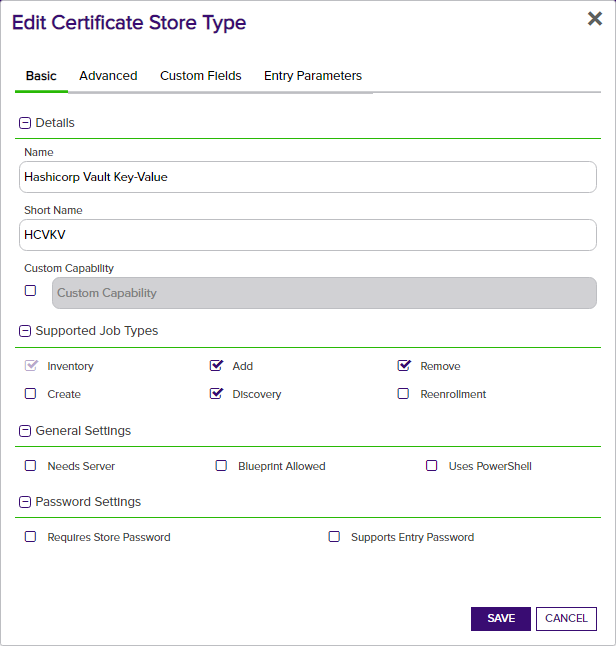
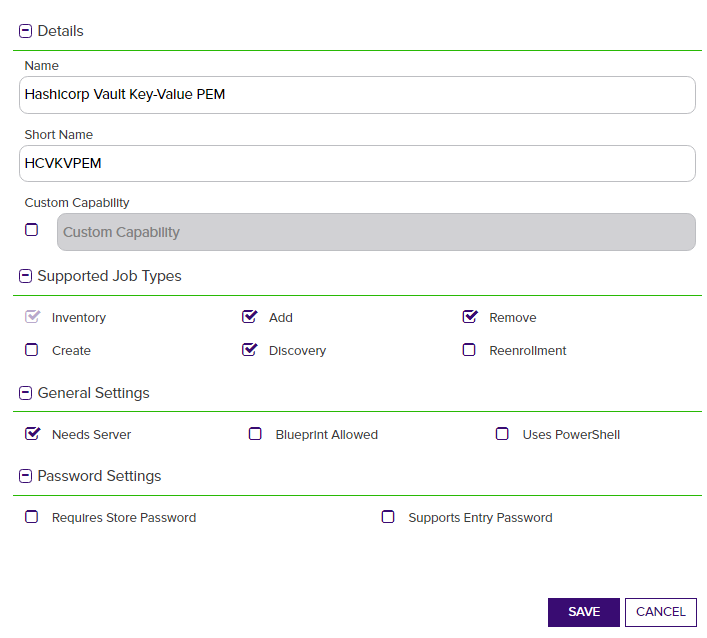
Updating documentation and manifest

Changed region(s): [[0.0, 0.0, 1.0, 1.0], [0.0, 0.0, 0.401, 0.0596], [0.0, 0.9828, 0.0308, 1.0]]

diff --git a/readme_source.md b/readme_source.md
@@ -8,17 +8,40 @@ This integration supports 3 Hashicorp Secrets Engines; PKI, Key-Value store, and
 
 ### The Key-Value secrets engine
 
-The Following operations are supported by this integration **only** for the Key-Value secrets engine.
+For the Key-Value secrets engine, we have 4 store types that can be used.  
 
-1. Discovery - Discover all sub-paths containing certificate.
-1. Inventory - Return all certificates stored in a path.
+- *HCVKVJKS* - For JKS certificate files, treats each file as it's own store.
+- *HCVKVPFX* - For PFX certificate files, treats each file as it's own store.
+- *HCVKVP12* - For PKCS12 certificate files, treats each file as it's own store.
+- *HCVKVPEM* - For PEM encoded certificates, treats each _path_ as it's own store.  Each certificate exists in a sub-path from the store path.
+
+The following operations are supported by this integration for all of the Key-Value secrets engine types:
+
+1. Discovery - Discovery all file repositories for the type
+1. Inventory - Inventory all certificates in the path
+
+Additionally, the following operations are supported by this integration **only** for the Key-Value PEM secrets engine (*HCVKVPEM*).
+
 1. Management (Add) - Add a certificate to a defined certificate store.
 1. Management (Remove) - Remove a certificate from a defined certificate store.
 
+Excluding *HCVKVPEM*, the discovery process requires that:
+1. The entry for the certificate contain the base64 encoded certificate file.
+1. The name (key) for the entry contains the suffix corresponding to the certificate store type:
+ 1. *HCVKVJKS* - `*jks-contents` 
+ 1. *HCVKVPFX* - `*pfx-contents`
+ 1. *HCVKVP12* - `*p12-contents`
+ 1. *HCVKVPEM* - `certificate`
+1. For all except *HCVKVPEM*, there be an entry named `password` that contains the password for the store.
+1. For *HCVKVPEM*, there be an entry named `private_key` containing the private key portion of the key-pair.
+
+**Note**: Key/Value secrets that do not include the expected keys will be ignored during inventory scans.
+
 ### The Hashicorp PKI and Keyfactor Plugin secrets engines
 
-Both the Hashicorp PKI and Keyfactor plugin are designed to allow managing certifications directly on the Hashicorp Vault instance.
-This integration does support the following in order to view your certificates from the platform:
+Both the Hashicorp PKI and Keyfactor Secrets Engine plugins are designed to allow managing certifications directly on the Hashicorp Vault instance.
+The store type for the PKI and/or the Keyfactor secrets engine is the same; `HCVPKI`.
+This integration supports the following in order to view your certificates from the platform:
 
 1. Inventory - Return all certificates stored in a path.
 
@@ -36,13 +59,6 @@ This integration was built on the .NET Core 3.1 target framework and are compati
 
 1. It is not necessary to use the Vault root token when creating a Certificate Store for HashicorpVault.  We recommend creating a token with policies that reflect the minimum permissions necessary to perform the intended operations.
 
-1. For the Key-Value secrets engine, the certificates are stored as an entry with these fields.  
-
-- `certificate` - The PEM formatted certificate and intermediate CA chain (if selected)
-- `private_key` - The certificate private key
-
-**Note**: Key/Value secrets that do not include the keys `certificate` and `private_key` will be ignored during inventory scans. 
-
 ## Extension Configuration
 
 ### On the Orchestrator Agent Machine
@@ -57,7 +73,7 @@ This integration was built on the .NET Core 3.1 target framework and are compati
 
 ### In the Keyfactor Platform
 
-#### Add a new Certificate Store Type - **Key-Value Secrets Engine**
+#### Add a new Certificate Store Type - **Hashicorp Vault Key-Value PEM**
 
 - Log into Keyfactor as Administrator or a user with permissions to add certificate store types.
 - Click on the gear icon in the top right and then navigate to the "Certificate Store Types"
@@ -66,9 +82,11 @@ This integration was built on the .NET Core 3.1 target framework and are compati
 ![](images/store_type_add.png)
 
 - Set the following values in the "Basic" tab:
-  - **Name:** "Hashicorp Vault Key-Value" (or another preferred name)
-  - **Short Name:** "HCVKV"
+  - **Name:** "Hashicorp Vault Key-Value PEM" (or another preferred name)
+  - **Short Name:** "HCVKVPEM"
   - **Supported Job Types** - "Inventory", "Add", "Remove", "Discovery"
+    - **NOTE** If you are setting up "`HCVKVJKS`, `HCVKVPFX`, or `HCVKVP12` the supported job types will be "Inventory, Discovery".
+  - **Needs Server** - should be checked (true).
 
 ![](images/store-type-kv.PNG)
 
@@ -80,12 +98,13 @@ This integration was built on the .NET Core 3.1 target framework and are compati
 
 - Click the "Custom Fields" tab to add the following custom fields:
   - **MountPoint** - type: *string*
-  - **VaultServerUrl** - type: *string*, *required*
-  - **VaultToken** - type: *secret*, *required*
   - **SubfolderInventory** - type: *bool* (By default, this is set to false. Not a required field)
   - **IncludeCertChain** - type: *bool* (If true, the available intermediate certificates will also be written to Vault during enrollment)
 
 ![](images/store_type_fields.png)
+
+**Note**
+The 3 highlighted fields above will be added automatically by the platform, you will not need to include them when creating the certificate store type.
 
 - Click **Save** to save the new Store Type.
 
@@ -100,15 +119,18 @@ In Keyfactor Command create a new Certificate Store that resembles the one below
 
 ![](images/cert_store_fields.png)
 
-- **Client Machine** - Enter the URL for the Vault host machine
+- **Client Machine** - Enter an identifier for the client machine.  This could be the Orchestrator host name, or anything else useful.  This value is not used by the extension.
 - **Store Path** - This is the path after mount point where the certs will be stored.
   - example: `kv-v2\kf-secrets\certname` would use the path "\kf-secrets"
 - **Mount Point** - This is the mount point name for the instance of the Key Value secrets engine.  
   - If left blank, will default to "kv-v2".
   - If your organization utilizes Vault enterprise namespaces, you should include the namespace here.
-- **Vault Token** - This is the access token that will be used by the orchestrator for requests to Vault.
-- **Vault Server Url** - the full url and port of the Vault server instance
 - **Subfolder Inventory** - Set to 'True' if it is a requirement to inventory secrets at the subfolder/component level. The default, 'False' will inventory secrets stored at the root of the "Store Path", but will not look at secrets in subfolders. **Note** that there is a limit on the number of certificates that can be in a certificate store. In certain environments enabling Subfolder Inventory may exceed this limit and cause inventory job failure. Inventory job results are currently submitted to the Command platform as a single HTTP POST. There is not a specific limit on the number of certificates in a store, rather the limit is based on the size of the actual certificates and the HTTP POST size limit configured on the Command web server.
+
+#### Set the server name and password
+
+- The server name should be the full URL to the instance of Vault that will be accessible by the orchestrator. (example: `http://127.0.0.1:8200`)
+- The server password should be the Vault token that will be used for authenticating.
 
 ### For the Keyfactor and PKI plugins
 

diff --git a/readme-src/readme-pam-support.md b/readme-src/readme-pam-support.md
@@ -1,0 +1,4 @@
+|Name|Description|
+|----|-----------|
+|Server Username|The url to the instance of vault from the orchestrator|
+|Server Password|The vault token that will be used for authentication|
